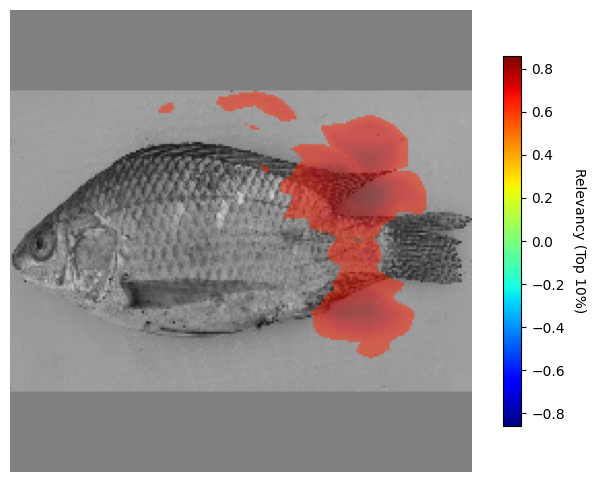
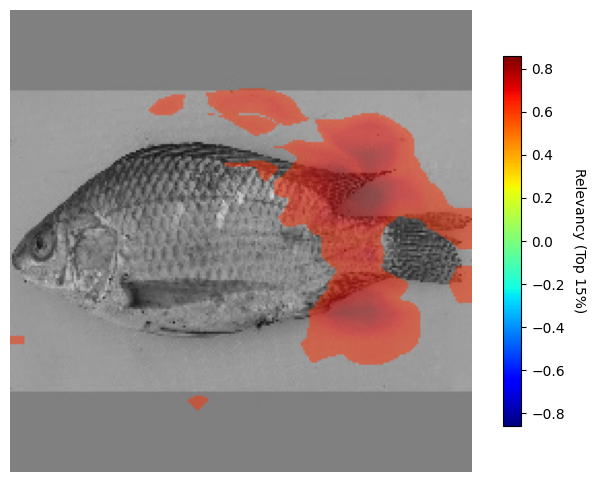
small adjustments

diff --git a/code/visualize.py b/code/visualize.py
@@ -91,12 +91,26 @@ def visualizeAttentionMap(attentionMapDict, saveImages = False):
         
         if summary:
             fishImage = mpimg.imread(sampleImagePath)
+            bigFishImage = mpimg.imread("../data/fish_x10_PTI.png")
+            scale = 0.15
         else:
-            fishImage = mpimg.imread(os.path.join(pathImages, imageName))
-        if fishImage.ndim == 2:       #if greyscale
-            fishImage = np.stack((fishImage,)*3, axis=-1)
+            bigFishImage = mpimg.imread(os.path.join(pathImages, imageName))  # Load original for display
+            scale = 1.5
+
+        # Handle grayscale conversion for bigFishImage
+        if bigFishImage.ndim == 2:
+            bigFishImage = np.stack((bigFishImage,)*3, axis=-1)
 
         for head in attentionMap:
+            # Load fresh copy for each head processing
+            if summary:
+                fishImage = mpimg.imread(sampleImagePath)
+            else:
+                fishImage = mpimg.imread(os.path.join(pathImages, imageName))
+            
+            if fishImage.ndim == 2:
+                fishImage = np.stack((fishImage,)*3, axis=-1)
+                
             for i in range(len(head)):
                 if head[i] < cutoffWeightAttention:
                     head[i] = 0
@@ -131,7 +145,7 @@ def visualizeAttentionMap(attentionMapDict, saveImages = False):
             backgroundcolor = "white",
             weight = "bold"
         )
-        addImage(ax, fishImage,200 , yMax/2 - 122, 1.5)
+        addImage(ax, bigFishImage,200 , yMax/2 - 122, scale)
 
         for i in range(len(attentionImages)):
             x, y = boxCoordinates(i, 900, 830, 3, 4)

diff --git a/code/config.py b/code/config.py
@@ -17,7 +17,7 @@ cmapType = "jet"
 #cmapType = "seismic"
 resultsFolder = "../results"
 #resultsFolder = "../results animals"
-sampleImagePath = "../data/oreochromis niloticus_modified2.png"
+sampleImagePath = "../data/fish_I.png"
 
 #analysis
 relevancyOperations = {
@@ -27,7 +27,7 @@ relevancyOperations = {
     "max" : False
 }
 #summarized Relevancy
-percentile = 10
+percentile = 15
 #Subtractive Relevancy
 topPercentile = 10
 lowPercentile = 0
